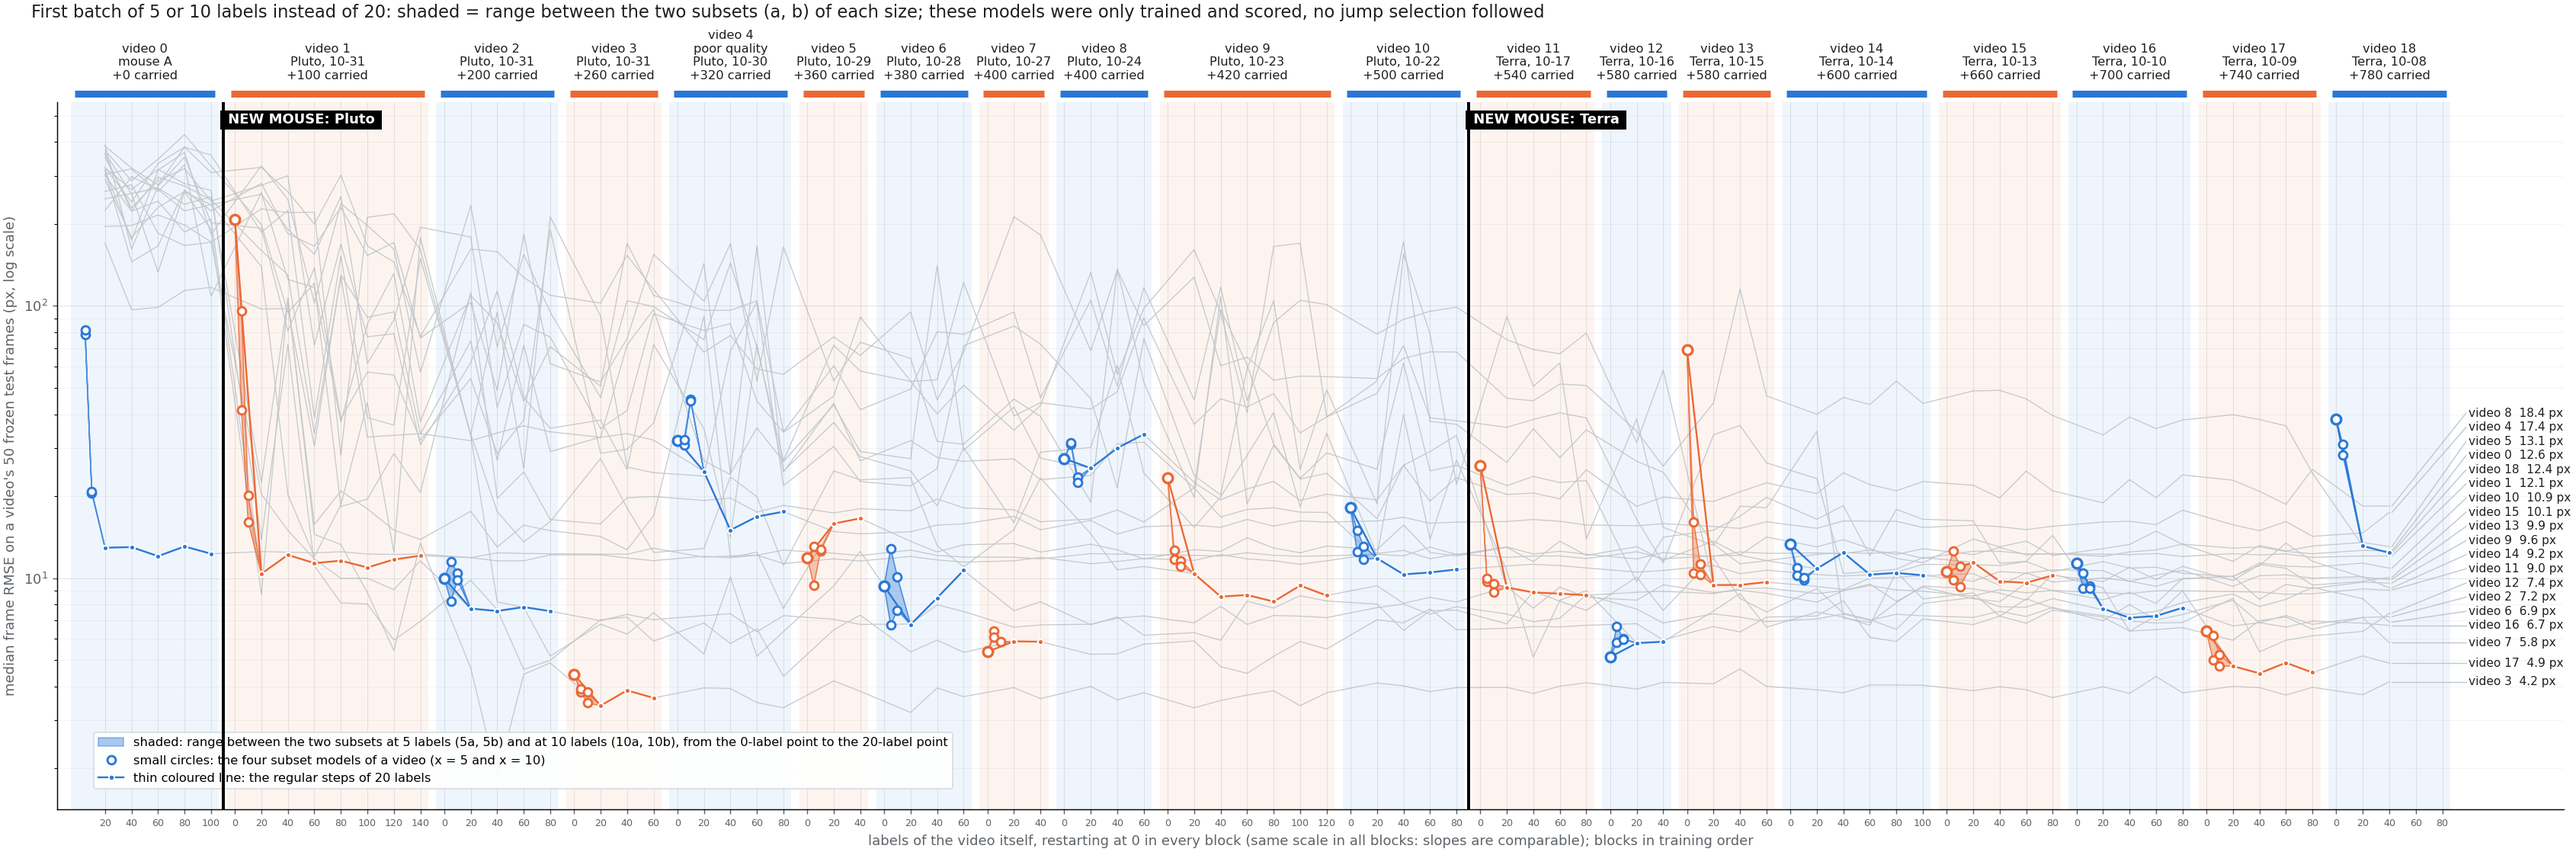
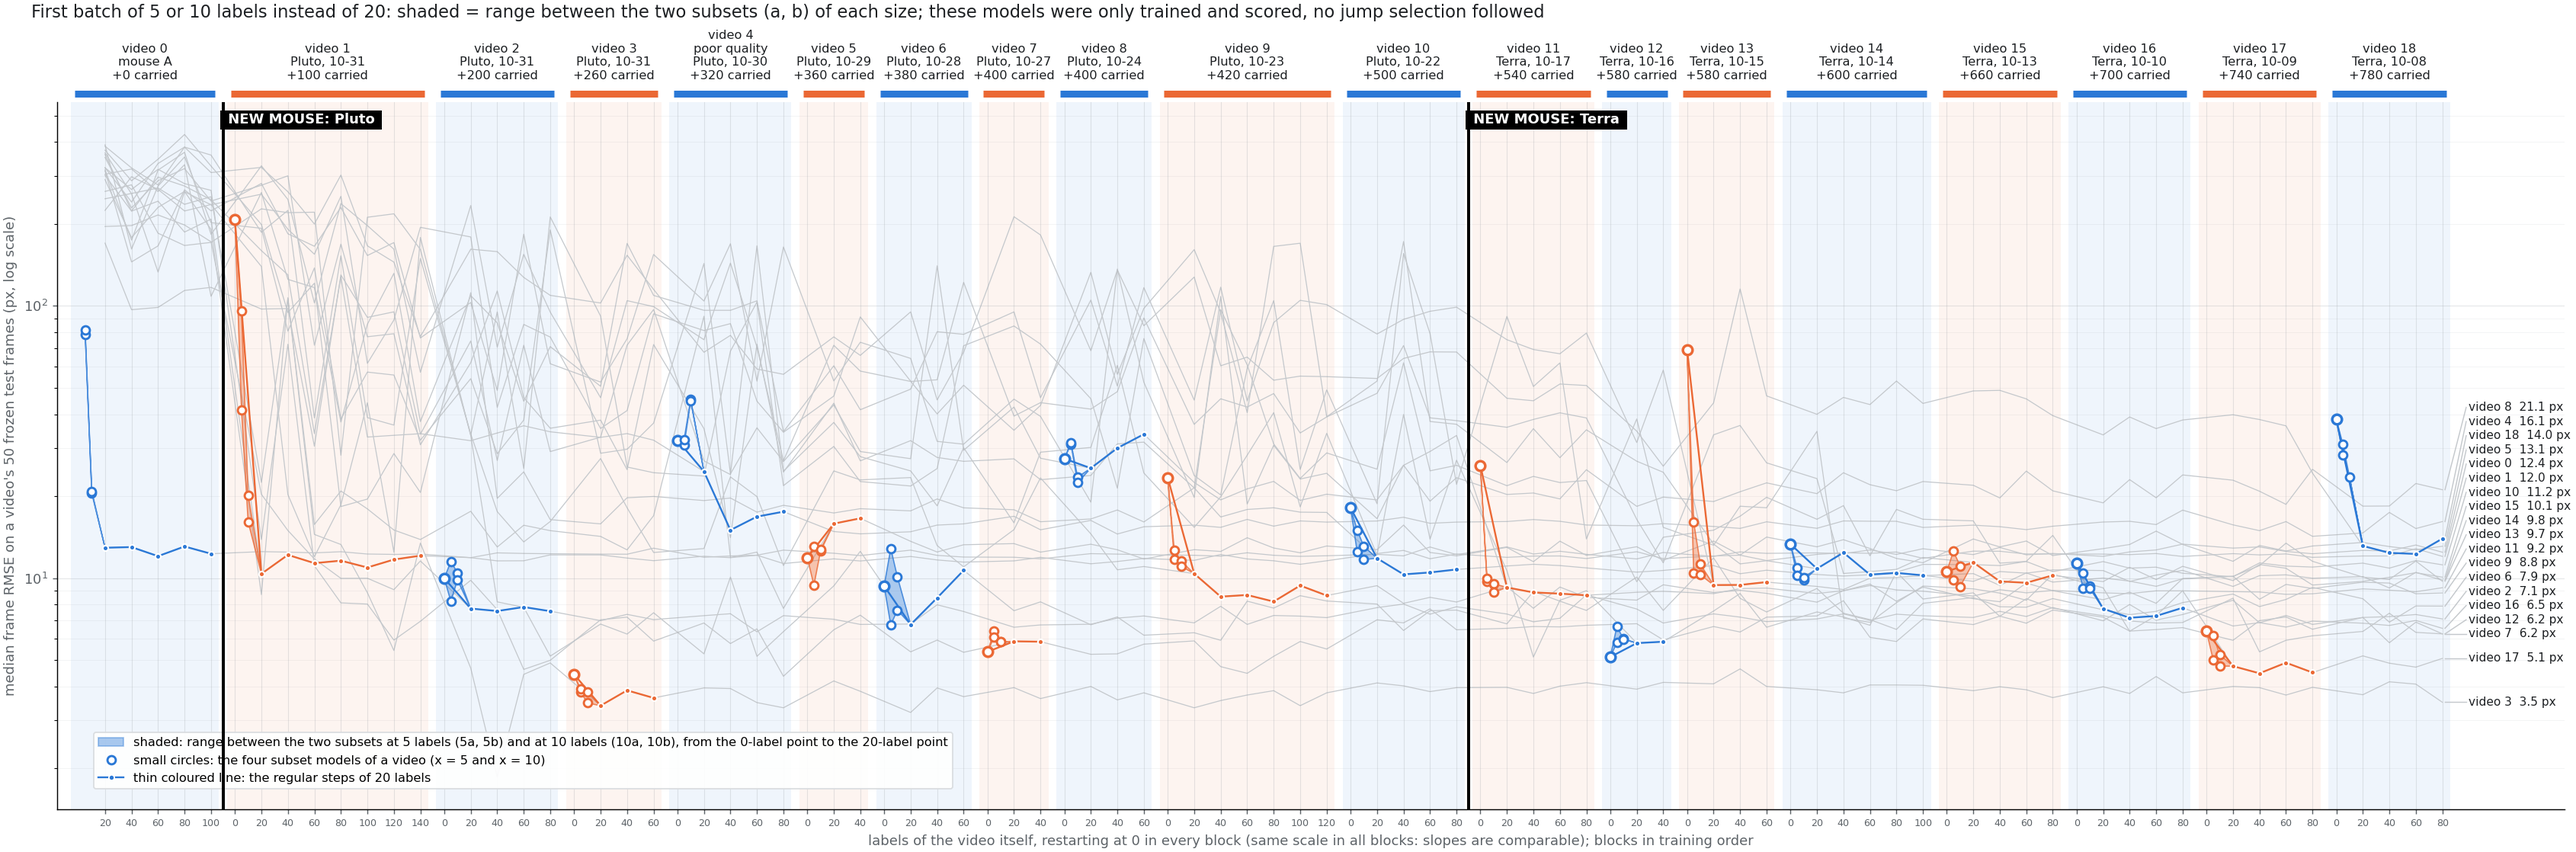
Video 18 fewer-labels study: 5 labels 28.41 / 30.94 px, 10 labels 23.45 / 22.97 px (20 labels 13.13); all-videos views redrawn with all 19 videos

Changed region(s): [[0.932, 0.4562, 1.0, 0.8211]]

diff --git a/v2_new_pupil_top_video_scaling/18_20251008_Terra_spont_1/results/README.md b/v2_new_pupil_top_video_scaling/18_20251008_Terra_spont_1/results/README.md
@@ -51,3 +51,12 @@ whole-video prediction of the 80-label model was stopped (no batch 5 is needed; 
 17:12), so the last row of the table has no flagged count. Video 18 closed on 2026-10-12 under the standing rule (the rule
 fires, the video closes). This is the last video of the set, so nothing is carried further; batches 1-2 (40 labels) are the
 plateau labels of this video, and the set of labels a future video would start from is 780 + 40 = 820.
+
+**Fewer-labels study (2026-10-12)**: step 1 retrained with 5 or 10 of batch01's 20 labels (two subsets each, training set
+otherwise as at the time: the 780 carried labels; shuffles 2181-2184; 5a / 5b share no frame, 10a / 10b share 2).
+5 labels = 28.41 / 30.94 px (subsets a / b; p90 43.2 / 44.9; 6% / 4% of test frames > 50 px), 10 labels = 23.45 / 22.97 px
+(p90 42.3 / 37.5; 0% > 50 px), against 38.24 px at 0 labels and 13.13 px at 20: every subset improves on the 0-label model
+(by 19-40%), but all four stay far above the 20-label number (5 labels 2.2-2.4 times it, 10 labels 1.7-1.8 times), and only
+54-60% of the keypoints are confident against 72% at 20 labels. The nasal corner is the weakest point of the subset models
+(median 36 px for subset 10b against 14 px at 20 labels). So on this video, as on video 13, the first 20 labels were needed;
+figure `fewer_labels.png`.

diff --git a/v2_new_pupil_top_video_scaling/results/README.md b/v2_new_pupil_top_video_scaling/results/README.md
@@ -232,6 +232,7 @@ time (earlier videos only, never later ones), same recipe, same frozen test set 
 | 15 (Terra; added 2026-10-08) | 10.57 (0%) | 12.6 / 9.8 (0% / 0%) | 11.1 / 9.3 (0% / 0%) | 11.42 (0%) |
 | 16 (Terra; added 2026-10-09) | 11.35 (0%) | 9.2 / 10.4 | 9.4 / 9.2 | 7.72 (2%) |
 | 17 (Terra; added 2026-10-11) | 6.38 (0%) | 5.0 / 6.2 | 4.8 / 5.2 | 4.75 (0%) |
+| 18 (Terra, last video; added 2026-10-12) | 38.24 (22%) | 28.4 / 30.9 | 23.5 / 23.0 | 13.13 (0%) |
 
 - What this study compares: the size of the FIRST batch. The 5 and 10 labels are taken out of the 20 batch01 labels that were
   already made (appearance-based, model-free, like batch01 itself). It is not a procedure of 5 labels per step (label 5,
